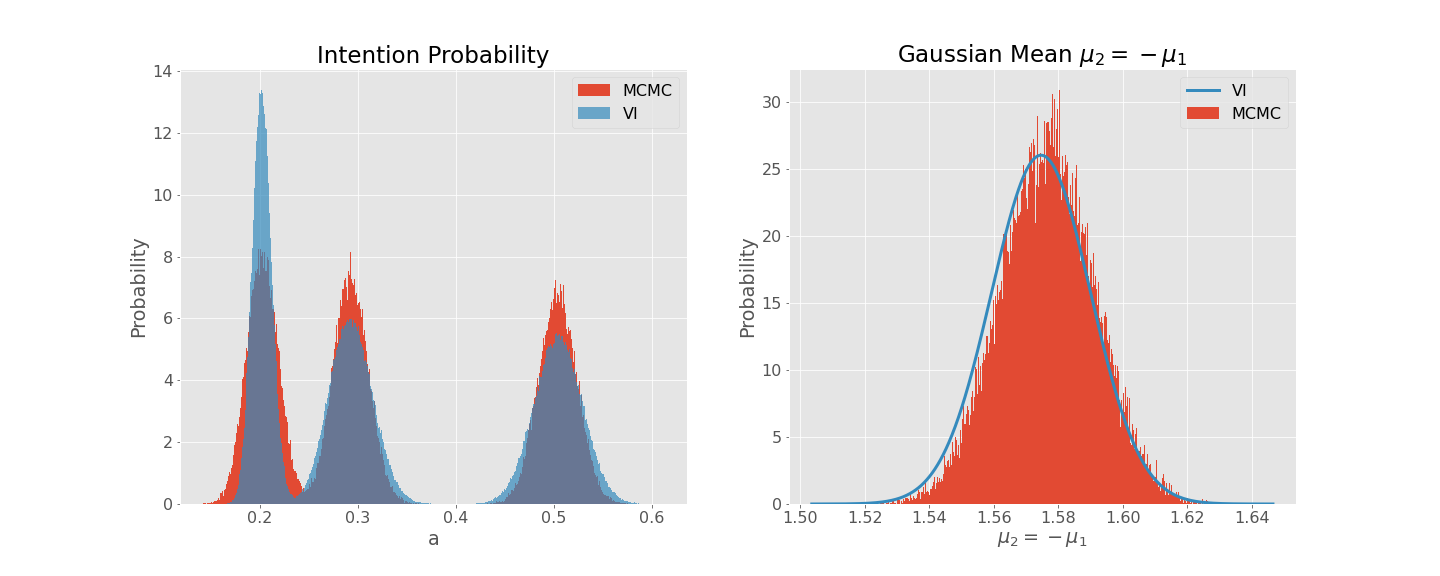
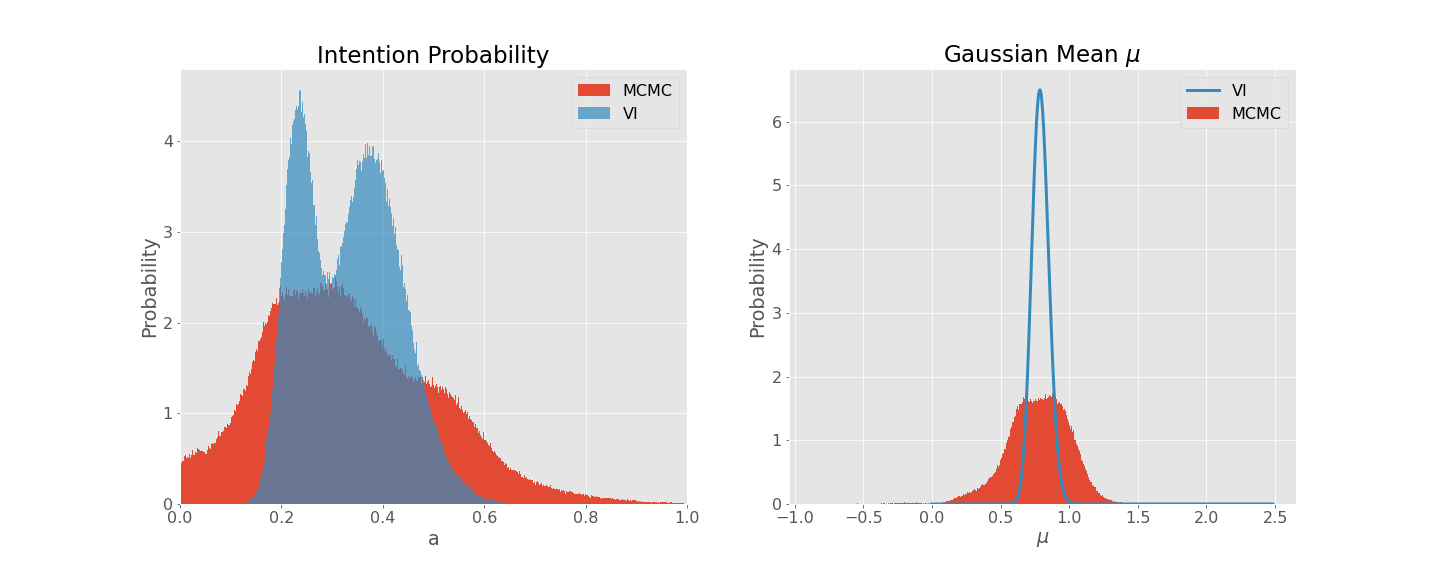
Update figures

diff --git a/chapters/4-implementation-and-result.tex b/chapters/4-implementation-and-result.tex
@@ -11,6 +11,11 @@ This example model is intentionally not identifiable when observing only the ang
 
 Whether or not the final destination is valid is modelled using a Bernoulli variable $D_t$ which takes the value $1$ if the destinations is \textbf{invalid}. A Beta distribution is used to model the prior probability $p_D$ of $D=1$, i.e. the destination being invalid.  
 
+\begin{description}
+    \item[Assumption 1] The angles $\{\theta_1, \theta_2, \dots, \theta_t\}$ are independent
+    \item[Assumption 2] The angle Gaussian mixture components are symmetrical about $\theta=0$. 
+\end{description}
+
 \begin{equation}
     p_D \sim \text{Beta}, \quad p_D \in (0, 1)
 \end{equation}
@@ -41,9 +46,9 @@ $I_t=2$ & The obstacle intends a port-side turn            \\ \hline
 
 
 The mixture components for $\theta_t$ when $D_t=0$ are Gaussian Distributions. For $I=0$, the mean is zero with unknown variance. For $I \in \{1, 2\}$ the means are assumed to have equal absolute value, but opposite sign. The value for $\mu_2 = -\mu_1$ is unknown and distributed according to a Gaussian variable. The standard deviation is assumed equal for all intentions and is distributed according to an inverse Gamma distribution. In other words, the mixture components are assumed to have the same variance and they should be symmetrical around $\theta_t=0$.
-Learning the mean $\mu_2 = -\mu_1$ from data allows the model to adapt to different types of ships. A small fishing vessel might rapidly change course (i.e. large $\theta_t$), while a large oil-tanker has limited ability to turn due to its size (i.e. smaller $\theta_t$). 
+Learning the mean $\mu$ from data allows the model to adapt to different types of ships. A small fishing vessel might rapidly change course (i.e. large $\theta_t$), while a large oil-tanker has limited ability to turn due to its size (i.e. smaller $\theta_t$). 
 \begin{align}
-    \mu_0 &= 0 &  \mu_{1} = - \mu_{2} &\sim \text{Gaussian} & \sigma &\sim \text{Inv-Gamma}
+    \mu_0 &= 0 &  \mu = \mu_{2} = - \mu_{1} &\sim \text{Gaussian} & \sigma &\sim \text{Inv-Gamma}
 \end{align}
 When $D=0$ and $I_t=i$, the angle is distributed according to
 \begin{equation}\label{eq:theta_intention_mixture}
@@ -55,9 +60,9 @@ The marginal distribution of $\theta_t$ when $D_t=0$ becomes the Gaussian mixtur
 \begin{align}\label{eq:angle_gauss_mixture}
 \begin{split}
     p(\theta_t | \boldsymbol{\mu}, \sigma, D=0, \boldsymbol{\alpha}) &= \sum_{i=0}^2 \Pr\{I_t=i\}\mathcal{N}(\theta_t | \mu_i, \sigma^2) \\
-    &=\Pr\{I_t=0 | \alpha_0\}\mathcal{N}(\theta_t | \mu_0, \sigma^2)\\
-    &\quad+\Pr\{I_t=1 | \alpha_1\}\mathcal{N}(\theta_t | \mu_1, \sigma^2)\\
-    &\quad+\Pr\{I_t=2 | \alpha_2\}\mathcal{N}(\theta_t | \mu_2, \sigma^2)
+    &=\Pr\{I_t=0 | \alpha_0\}\mathcal{N}(\theta_t | 0, \sigma^2)\\
+    &\quad+\Pr\{I_t=1 | \alpha_1\}\mathcal{N}(\theta_t | -\mu, \sigma^2)\\
+    &\quad+\Pr\{I_t=2 | \alpha_2\}\mathcal{N}(\theta_t | \mu, \sigma^2)
 \end{split}
 \end{align}
 
@@ -76,35 +81,37 @@ The distribution for $\theta_t$ becomes a mixture between the Gaussian Mixture i
 \begin{align}\label{eq:angle_complete_mixture}
 \begin{split}
      p(\theta_t | \boldsymbol{\mu}, \sigma, p_D, \boldsymbol{\alpha})
-     &= \sum_D \Pr\{D_t=d | p_D\} p(\theta_t | D_t=d, \boldsymbol{\mu}, \sigma, \boldsymbol{\alpha})\\
-     &= \Pr\{D_t = 0 | p_D\} \underbrace{p(\theta_t | \boldsymbol{\mu}, \sigma, D_t=0, \boldsymbol{\alpha})}_{\text{\cref{eq:angle_gauss_mixture}}}\\
+     &= \sum_D \Pr\{D_t=d | p_D\} p(\theta_t | D_t=d, \mu, \sigma, \boldsymbol{\alpha})\\
+     &= \Pr\{D_t = 0 | p_D\} \underbrace{p(\theta_t | \mu, \sigma, D_t=0, \boldsymbol{\alpha})}_{\text{\cref{eq:angle_gauss_mixture}}}\\
      &+ \Pr\{D_t=1 | p_D\}\underbrace{p(\theta_t | D_t=1)}_{\text{\cref{eq:angle_uniform}}}
 \end{split}
 \end{align}
+
+For multiple data points $\boldsymbol{\theta}$, the
 
 
 The data generating process for $\theta_t$ then becomes:
 
 \begin{enumerate}
     \item Draw priors $p_D$, $\boldsymbol{\alpha}$ 
-    \item Draw priors $\mu_i$ and $\sigma_i$ for all intentions 
-    \item Draw $D_t$ and $I_t$ conditional on $p_D$ and $\boldsymbol{\alpha}$
-    \item If $D_t=1$, draw $\theta_t$ from Uniform distribution. If not, draw $\theta_t$ from $\mathcal{N}_{I=i}$ conditional on $\mu_i$ and $\sigma_i$.
+    \item Draw priors $\mu$ and $\sigma$
+    \item For all $t \in \{1, \dots, N \}$, draw $D_t$ and $I_t$ conditional on $p_D$ and $\boldsymbol{\alpha}$
+    \item For all $t \in \{1, \dots, N\} $, if $D_t=1$, draw $\theta_t$ from Uniform distribution. If not, draw $\theta_t$ from $\mathcal{N}(\theta_t | \mu_i, \sigma)$ conditional on $\mu_i$ and $\sigma$. 
 \end{enumerate}
 
 
-The resulting joint distribution can then be factored into \cref{eq:example_joint}.
+The resulting joint distribution  can then be factored into \cref{eq:example_joint}.
 
 \begin{align}\label{eq:example_joint}
 \begin{split}
-    p(\boldsymbol{\theta}, \boldsymbol{\mu}, \sigma, p_D, \boldsymbol{\alpha}) =\underbrace{p(\boldsymbol{\alpha})}_{\text{Dirichlet}}\underbrace{p(p_D)}_{\text{Beta}}\underbrace{p(\boldsymbol{\mu})}_{\mathcal{N}} \underbrace{p(\sigma)}_{\text{Inv-Gamma}} \prod_t \underbrace{p(\theta_t | \boldsymbol{\mu}, \sigma, p_D, \boldsymbol{\alpha})}_{\text{\cref{eq:angle_complete_mixture}}}
+    p(\boldsymbol{\theta}, \boldsymbol{\mu}, \sigma, p_D, \boldsymbol{\alpha}) =\underbrace{p(\boldsymbol{\alpha})}_{\text{Dirichlet}}\underbrace{p(p_D)}_{\text{Beta}}\underbrace{p(\mu)}_{\mathcal{N}} \underbrace{p(\sigma)}_{\text{Inv-Gamma}} \prod_t \underbrace{p(\theta_t | \mu, \sigma, p_D, \boldsymbol{\alpha})}_{\text{\cref{eq:angle_complete_mixture}}}
 \end{split}
 \end{align}
 
 The unnormalized posterior distribution then becomes
 \begin{align}\label{eq:example_unnormalized_posterior}
 \begin{split}
-    \tilde{p}(\boldsymbol{\mu}, \sigma, p_D, \boldsymbol{\alpha}) =  p(\boldsymbol{\theta} = \mathcal{D}, \boldsymbol{\mu}, \sigma, p_D, \boldsymbol{\alpha}) \propto p(\boldsymbol{\mu}, \sigma, p_D, \boldsymbol{\alpha} | \boldsymbol{\theta}= \mathcal{D})
+    \tilde{p}(\mu, \sigma, p_D, \boldsymbol{\alpha}) =  p(\boldsymbol{\theta} = \mathcal{D}, \mu, \sigma, p_D, \boldsymbol{\alpha}) \propto p(\mu, \sigma, p_D, \boldsymbol{\alpha} | \boldsymbol{\theta}= \mathcal{D})
 \end{split}
 \end{align}
 
@@ -123,7 +130,7 @@ The unnormalized posterior distribution then becomes
     \label{fig:priors}
 \end{figure}
 
-The purpose of this chapter is to learn as much about the parameters $\boldsymbol{\alpha}$, $\boldsymbol{\mu}$, $\sigma$ and $p_D$ from available observations, in this case only the angles $\theta_t$. 
+The purpose of this chapter is to learn as much about the parameters $\boldsymbol{\alpha}$, $\mu$, $\sigma$ and $p_D$ from available observations, in this case only the angles $\boldsymbol{\theta}$ are known. 
 
 \section{Implementation}
 Both \acrshort{mcmc} and \acrshort{vi} were implemented using Tensorflow Probability, as it has great support for both methods as well as it utilizes Tensorflows automatic differentiation to avoid dealing with error-prone calculations \cite{tensorflow2015-whitepaper}. The joint distribution in \cref{eq:example_joint} was implemented using the \texttt{JointDistributionSequential} distribution in TFP. (TODO: Add code in appendix)
@@ -140,19 +147,28 @@ Hamiltonian Monte Carlo was implemented using Tensorflow Probability (TFP). The 
 \end{split}
 \end{align}
 
+
 The proposal distribution were transformed using the following transformations (Bijectors)
 
 \begin{itemize}
-\item SoftmaxCentered was used to achieve unconstrained sampling for $\boldsymbol{\alpha} \in (0, 1)^3$.
+\item SoftmaxCentered was used to achieve unconstrained sampling for $$\boldsymbol{\alpha} \in \{x \in (0, 1)^3\ | \sum x_i = 1\}$$
 \item Sigmoid was used to achieve unconstrained sampling for $p_D \in (0, 1)$
 \item Softplus was used to achieve unconstrained sampling for $\sigma > 0$
 \end{itemize}
 
-$20$ chains were randomly initialized using samples from the prior and then sampled independently in parallel. Each chain consists of $2500$ samples, where the first $500$ samples are discarded due to burn-in. This results in $2000 \cdot 20 = 40000$ usable samples in total. 
+$20$ individual chains were randomly initialized by sampling from the prior. $30000$ samples were then drawn from each chain, were the first $10000$ samples are discarded due to burn-in. These values were selected by trial and error, and by inspecting the indivudal chains in order to confirm convergence.  
 
 \section{Variational Inference}
 
-\acrshort{vi} was implemented using an independent, transformed Gaussian distribution as surrogate density for each variable. Specifying this model was easily achieved by passing a list of Bijectors to \texttt{tfp.experimental.vi.build\_factored\_surrogate\_posterior}. 
+\acrshort{vi} was implemented using an independent, transformed Gaussian distribution as surrogate density for each variable. Specifying this model was easily achieved by passing the following list of Bijectors to \texttt{tfp.experimental.vi.build\_factored\_surrogate\_posterior}. 
+\begin{itemize}
+\item SoftmaxCentered was used to achieve unconstrained sampling for $\boldsymbol{\alpha} \in (0, 1)^3$.
+\item Sigmoid was used to achieve unconstrained sampling for $p_D \in (0, 1)$
+\item Softplus was used to achieve unconstrained sampling for $\sigma > 0$
+\item Softplus was used to achieve a unimodal distribution for $\mu \in \mathcal{R}$
+\end{itemize}
+
+The last Softplus Bijector needs additional explaination. As the intention probabilities for $I=1$ and $I=2$ are symmetrical around $\theta=0$ and the Gaussain distribution offer support on the entire real line $\mathcal{R}$, the resulting marginal distribution for $\mu$ becomes multimodal. As the model is not identifiable from $\boldsymbol{\theta}$ alone, the data supports both modes equally. The prior do prioritize the positive values, but still offers support for negative values as well.  Using \acrshort{vi} with reverse \acrshort{kl} may therefore result in fitting the wrong mode, unless $\mu > 0$ is explicitly enforced by using a Softplus transformation to remove support for negative values. 
 
 The Stochastic Gradient Descent (SGD) optimizer \texttt{tf.optimizers.Adam} was then used to optimize the reverse KL divergence by passing it to \texttt{tfp.vi.fit\_surrogate\_posterior} along with the same log posterior density used for \acrshort{mcmc}, expressed in \cref{eq:example_ll} \cite{tensorflow2015-whitepaper}. 
 
@@ -161,8 +177,8 @@ A dataset of $N=1000$ samples were used to observe how well \acrshort{vi} and \a
 \begin{table}[h]
 \centering
 \begin{tabular}{lllll}
-\textbf{Variable:}   & $\boldsymbol{\alpha}$ & $p_D$ & $\boldsymbol{\mu}$                  & $\sigma$         \\ \hline
-\textbf{Value:} & $[0.5, 0.3, 0.2]$     & $0.3$ & $[0, -\frac{\pi}{2}, \frac{\pi}{2}]$ & $\frac{\pi}{16}$ \\
+\textbf{Variable:}   & $\boldsymbol{\alpha}$ & $p_D$ & $\mu$                  & $\sigma$         \\ \hline
+\textbf{Value:} & $[0.5, 0.3, 0.2]$     & $0.3$ & $\frac{\pi}{3}$ & $0.6$ \\
 \end{tabular}
 \caption{True values used to generate the dataset for example case 1.}
 \label{tbl:example_params}
@@ -172,7 +188,7 @@ On this model, \acrshort{vi} and \acrshort{mcmc} have very similar results as se
 
 The posterior distribution when using \acrshort{mcmc} is shown in \cref{fig:example_mcmc_posterior} and shows how it is able to correctly infer the intention probabilities from data as well as the correct mean for the Gaussian mixture components. However, it it unable to distinguish the standard deviation $\sigma$ from the invalid destination probability $p_D$. Due to the lack of identifiability, both $\sigma$ and $p_D$ can be used to explain any outlier datapoints. The model falls back to using the maximum prior likelihood value for $\sigma$ and selects $p_D$ accordingly. Multiple simulation with different values for $\sigma$ and $p_D$ shows similar results, where $\sigma$ remains fixed and $p_D$ varies.
 
-\cref{fig:example_vi_posterior} show very similar results for \acrshort{vi} where the intetion probabilities and means $\mu_2 = -\mu_1$ are inferred from data, while the standard deviation $\sigma$ and $p_D$ are incorrect. The key observation is however that \acrshort{vi} and \acrshort{mcmc} give almost identical results even if the results are not the ones used to generate the dataset. The models lack of identifiability is not really something the methods can do anything about.
+\cref{fig:example_vi_posterior} show very similar results for \acrshort{vi} where the intetion probabilities and means $\mu$ are inferred from data, while the standard deviation $\sigma$ and $p_D$ are incorrect. The key observation is however that \acrshort{vi} and \acrshort{mcmc} give almost identical results even if the results are not the ones used to generate the dataset. The models lack of identifiability is not really something the methods can do anything about.
 
 Another dataset with only $N=50$ samples was then generated to see how the methods behave will low amounts of data. \cref{fig:example_mcmc_vi_low_N} show how \acrshort{vi} is a bit overconfident on the intention probabilities and underestimate the uncertainty when compared to \acrshort{mcmc}. The results are otherwise very similar as shown in \cref{fig:example_mcmc_low_N} and \cref{fig:example_vi_low_N} for \acrshort{mcmc} and \acrshort{vi} respectively.
 
@@ -181,7 +197,7 @@ The number of burn-in samples were somewhat arbitrarily chosen. However, by insp
 \begin{figure}[h]
     \centering
     \includegraphics[width=\textwidth]{figures/example_vi_mcmc_comparison.png}
-    \caption{The posterior distribution for intention probabilities and Gaussian mixture component means, found using MCMC and VI and plotted together to show how the methods give very comparable results. Note that all three intention probabilities are plotted together with the same color to highlight the differences between MCMC and VI. }
+    \caption{The posterior distribution for intention probabilities and Gaussian mixture component means, found using MCMC and VI and plotted together to show how the methods give very comparable results. Note that all three intention probabilities are plotted together with the same color to highlight the differences between MCMC and VI. The plot shows how \acrshort{vi} underestimate the uncertainty.}
     \label{fig:example_mcmc_vi_alphas}
 \end{figure}
 

diff --git a/chapters/2-theory.tex b/chapters/2-theory.tex
@@ -244,10 +244,37 @@ For generative models, an extension to factor graph notation is proposed in \cit
 \caption{\acrshort{pgm} representations of a probabilistic models with $4$ variables.}
 \end{figure}
 
+
+\section{Some useful functions}
+\subsection{Sigmoid}
+The sigmoid is used to map $\mathcal{R}$ to $(0, 1)$.
+\begin{equation}\label{eq:sigmoid}
+    f(x) = \frac{1}{1 + e^{-x}}
+\end{equation}
+
+\subsection{Softmax}
+The softmax is a useful transformation from $\mathcal{R}^N$ to $\{\mathbf{x} \in (0,1)^N | \sum x_i = 1\}$. It can be viewed as a multivariate generalization of the sigmoid function. 
+\begin{equation}\label{eq:softmax}
+    f(\mathbf{x})_i = \frac{e^{x_i}}{\sum_j e^{x_j}}
+\end{equation}
+
+\subsection{Sigmoid}
+
+\subsection{Softplus}
+The \textit{softplus} function is useful for mapping $\mathcal{R}$ to the positive real line $\{x \in \mathcal{R} | x \leq 0\}$. It is in some cases called \textit{SmoothReLu} as it approximates the Relu function $\max(0, x)$ for large negative or positive values \cite{tensorflow2015-whitepaper}.
+\begin{equation}\label{eq:softplus}
+    f(x) = \ln (1 + e^x)
+\end{equation}
+
+
 \section{Probability Distributions}
 
 \subsection{Transformations}
-TODO: Add equation
+Given a (possibly nonlinear) transformation $\mathbf{y} = f(\mathbf{x})$, the probability distribution $p(\mathbf{y})$ can be expressed in terms of the $p(\mathbf{x})$ through a change of variables. The formula for a change of variables is expressed in \cref{eq:change_of_variable} where $\boldsymbol{J}$ is the Jacobian of $f(\mathbf{x})$.
+
+\begin{equation}\label{eq:change_of_variable}
+    p(\mathbf{y}) = p(\mathbf{x}) | \det (\mathbf{J}) | = p_{\mathbf{x}}(f^{-1}(\mathbf{y})) | \det (\mathbf{J}) |  
+\end{equation}
 
 \subsection{Conjugate Priors}\label{sec:theory_conjugate_priors}
 If the posterior distribution is in the same family as the prior, then the posterior is called the \textit{conjugate distribution} and the prior is called the \textit{conjugate prior}. Using conjugate priors in Bayesian Statistics, allows for analytically tractable inference as the posterior becomes a well known probability distribution. \cref{table:conjugate_priors} summarizes the conjugate priors for a few common distribution.
